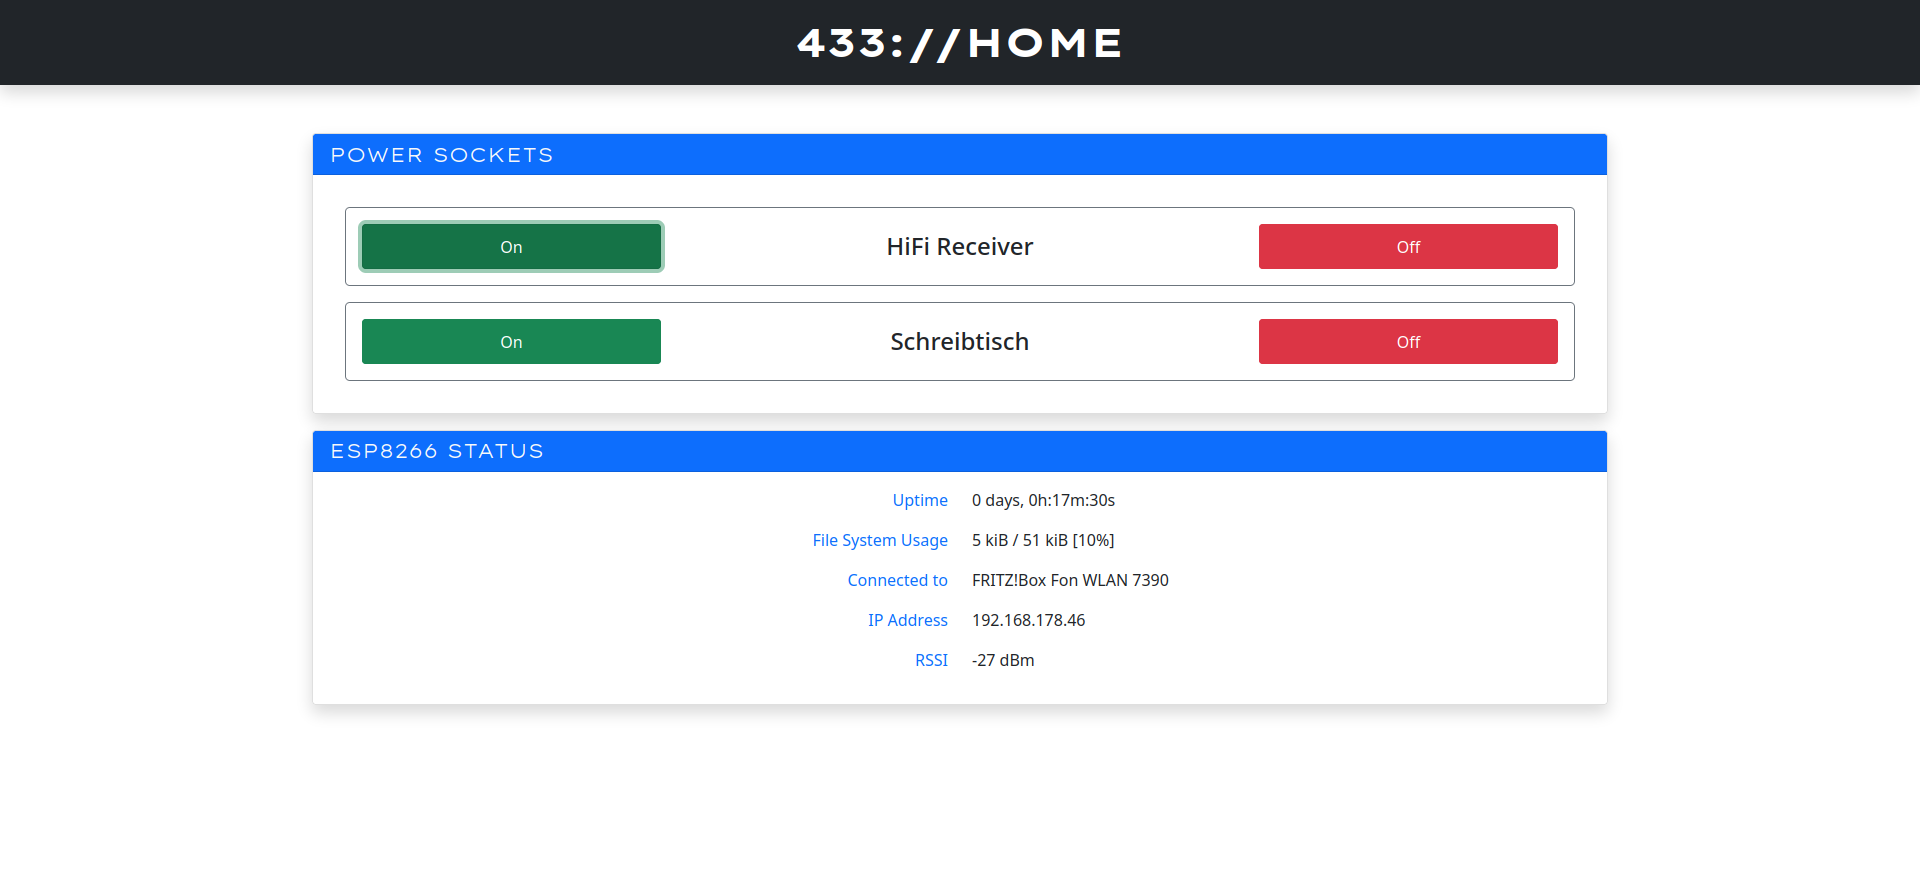
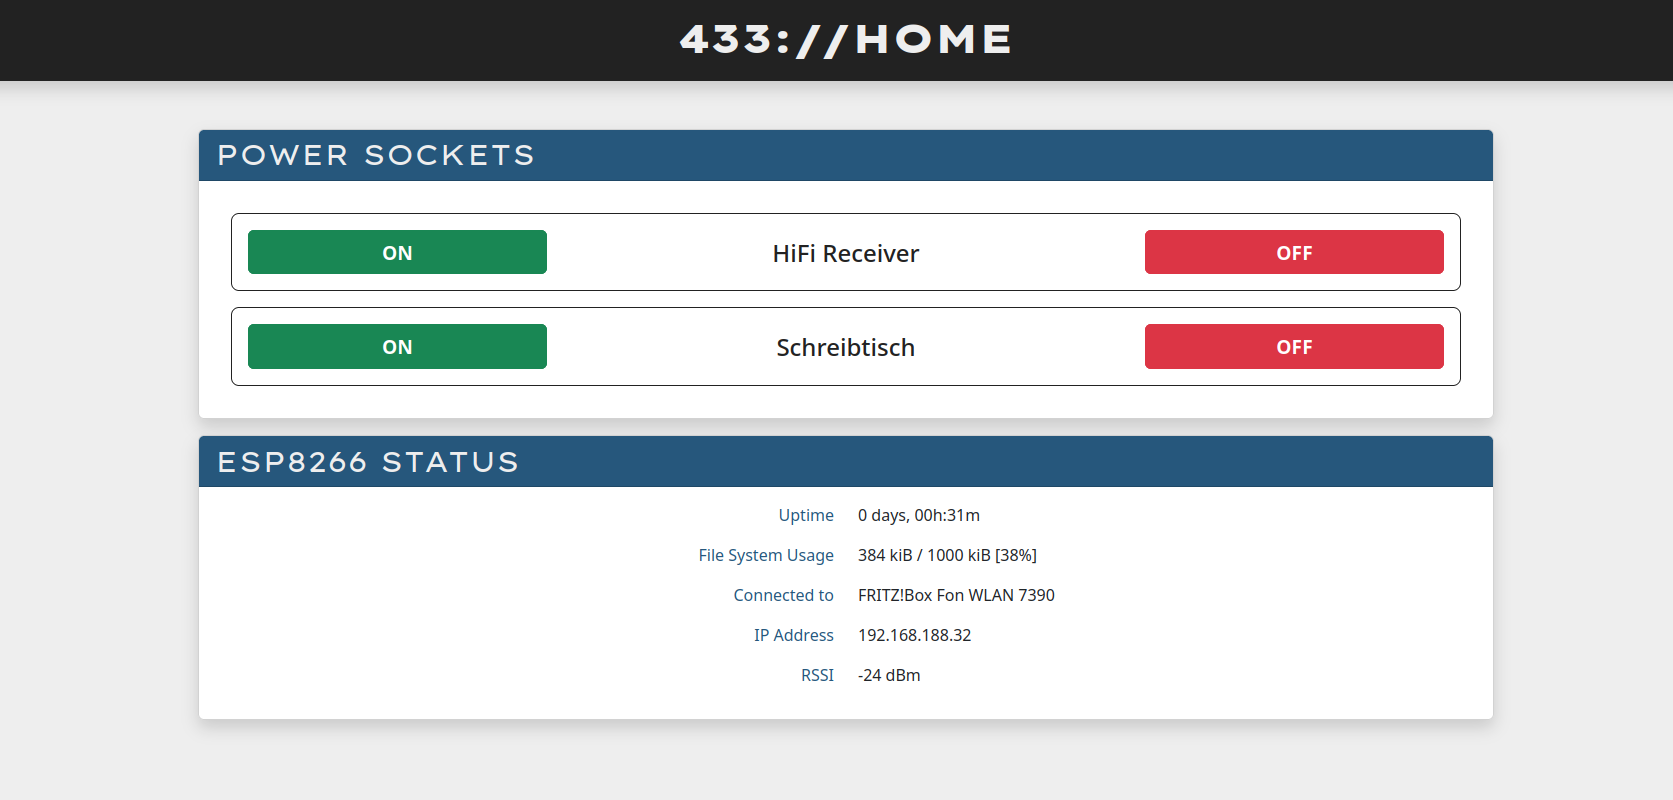
Update README

Changed region(s): [[0.0, 0.0312, 1.0, 0.9375], [0.1554, 0.7812, 0.8392, 0.8125], [0.4041, 0.6875, 0.6216, 0.75]]

diff --git a/README.md b/README.md
@@ -1,5 +1,4 @@
 # 433 MHz Power Switches Frontend
-
 This is a simple network front end for a set of wireless remote power switches in my home. It sets up an HTTP server, drives a 433 MHz transmitter and displays the current status of the power sockets. The design is responsive to work on phones as well as desktop computers.
 
 ### Sockets
@@ -25,21 +24,26 @@ I repeated the process for the other buttons on the remote as well and those are
 
 The remote sends each control sequence 5 times in a row, but I went with 10 times, because my transmitter only runs on 3.3V and the signal needs to pass through walls. From what I can tell, this seems to work quite reliably. The transmitter could take up to 12V, if more range is needed.
 
-### HTML
-Update 2022: I gave the whole project a bigger overhaul. The frontend now uses [Bootstrap 5](https://getbootstrap.com) for CSS and [HTMX](https://htmx.org/) to interact with the ESP8266 Webserver. Buttons are now stateless because I found that changing the state of the button depending on whether the socket was switched on or off was more confusing than helpful. HTML is not rendered on the ESP8266 anymore because dynamically replacing content inside files turned out rather slow. Instead, runtime
-information is fetched from dedicated endpoints and rendered on the client side via HTMX.
-
+## HTML
+The website, including all assets, is built with npm and served from the ESP8266 filesystem.
+To build the website, go to the `html` directory and build using `npm`:
+### Build step
+```bash
+cd html
+npm run build
+```
 This is what the whole thing looks like on small device:
 
 ![Page on phone](/images/page_phone.png)
 
-And that's what it looks like in a browser. 
+And that's what it looks like in a browser:
 
 ![Page on desktop](/images/page_desktop.png)
 
-### Building & Flashing
+### Building & Flashing Firmware
+Your WiFi credentials need to be compiled into the application.
 Create a file `src/credentials.h` with the following content:
-```
+```c
 #ifndef CREDENTIALS_H
 #define CREDENTIALS_H
 
@@ -48,15 +52,15 @@ const char *password = "YOUR_PASSWORD";
 
 #endif
 ```
-Building and flashing is handled by [PlatformIO](https://platformio.org/). Change the line `board = esp01` in the `platformio.ini` if you are using another board. To flash the code, run:
+Building and flashing is handled by [PlatformIO](https://platformio.org/). To flash the code, run:
 ```
 pio run 
 ```
-Uploading the file system is handled separately by the command
+Building and uploading the LittleFS file system is handled separately:
 ```
 pio run -t uploadfs
 ```
-If you want to open the serial monitor, run:
+If you want to open the serial terminal, run:
 ```
 pio run -t monitor
 ```
